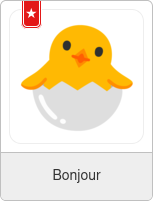
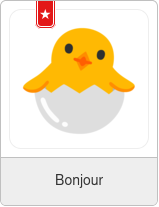
fix: Add missing image type on top left corner

diff --git a/website/public/app-ui/css/gallery.scss b/website/public/app-ui/css/gallery.scss
@@ -102,9 +102,17 @@ div.gallery {
 
   /* ===== Main avatar badge ===== */
   .picture-is-main-avatar {
-    z-index: 21; position: absolute; top: 0; left: 20px;
-    border-radius: 0 0 6px 6px; padding: 4px 1px 1px;
-    background: #e31818; border: 3px double white; border-top: 0; color: white;
+    z-index: 21;
+    position: absolute;
+    top: 0;
+    left: 34px;              /* was 20px — shift right to clear the type chip */
+    border-radius: 0 0 6px 6px;
+    padding: 4px 1px 1px;
+    background: #e31818;
+    border: 3px double white;
+    border-top: 0;
+    color: white;
+
     &::before { content: "\2605"; }
   }
 
@@ -190,3 +198,75 @@ div.gallery {
 /* swap controls in fullscreen */
 [data-gk-type="picture"]:target .zoom-close { display: flex; }
 [data-gk-type="picture"]:target .zoom-trigger { display: none; }
+
+/* ===== Picture type badges (uniform, no overlap) ===== */
+div.gallery {
+  --type-chip: 22px;        /* square chip size */
+  --type-icon: 14px;        /* inner glyph size */
+  --type-gap: 6px;          /* distance from edges */
+  --type-bg: #fff;
+  --type-border: #cfcfcf;
+  --type-shadow: 0 1px 2px rgba(0,0,0,.12);
+  --type-color: #111;       /* glyph color when using mask */
+}
+
+/* chip box (always same size) */
+div.gallery .parent .type {
+  position: absolute;
+  top: var(--type-gap);
+  left: var(--type-gap);
+  z-index: 20;                           /* below the red ribbon (z=21) */
+  width: var(--type-chip);
+  height: var(--type-chip);
+  border-radius: 4px;
+  background: var(--type-bg);
+  border: 1px solid var(--type-border);
+  box-shadow: var(--type-shadow);
+  display: grid;
+  place-items: center;
+  overflow: hidden;
+}
+
+/* inner glyph, normalized sizing */
+div.gallery .parent .type::before {
+  content: "";
+  width: var(--type-icon);
+  height: var(--type-icon);
+  display: block;
+  background: var(--type-color);
+
+  /* use CSS mask so any SVG becomes a crisp monochrome glyph */
+  -webkit-mask-repeat: no-repeat;
+  mask-repeat: no-repeat;
+  -webkit-mask-position: center;
+  mask-position: center;
+  -webkit-mask-size: contain;
+  mask-size: contain;
+}
+
+/* map types to icons (updated paths) */
+div.gallery .parent .type.human::before   {
+  -webkit-mask-image: url("/assets/images/human-bust.svg");
+  mask-image: url("/assets/images/human-bust.svg");
+}
+div.gallery .parent .type.geokret::before {
+  -webkit-mask-image: url("/assets/images/the-mole-grey.svg");
+  mask-image: url("/assets/images/the-mole-grey.svg");
+  background: var(--type-color);
+
+  /* keep the same box as the other icons */
+  width: var(--type-icon);
+  height: var(--type-icon);
+
+  /* scale the mole a bit larger and center it */
+  -webkit-mask-size: 130% auto;
+  mask-size: 130% auto;
+  -webkit-mask-position: center;
+  mask-position: center;
+  -webkit-mask-repeat: no-repeat;
+  mask-repeat: no-repeat;
+}
+div.gallery .parent .type.move::before {
+  -webkit-mask-image: url("/assets/images/plane.svg");
+  mask-image: url("/assets/images/plane.svg");
+}
